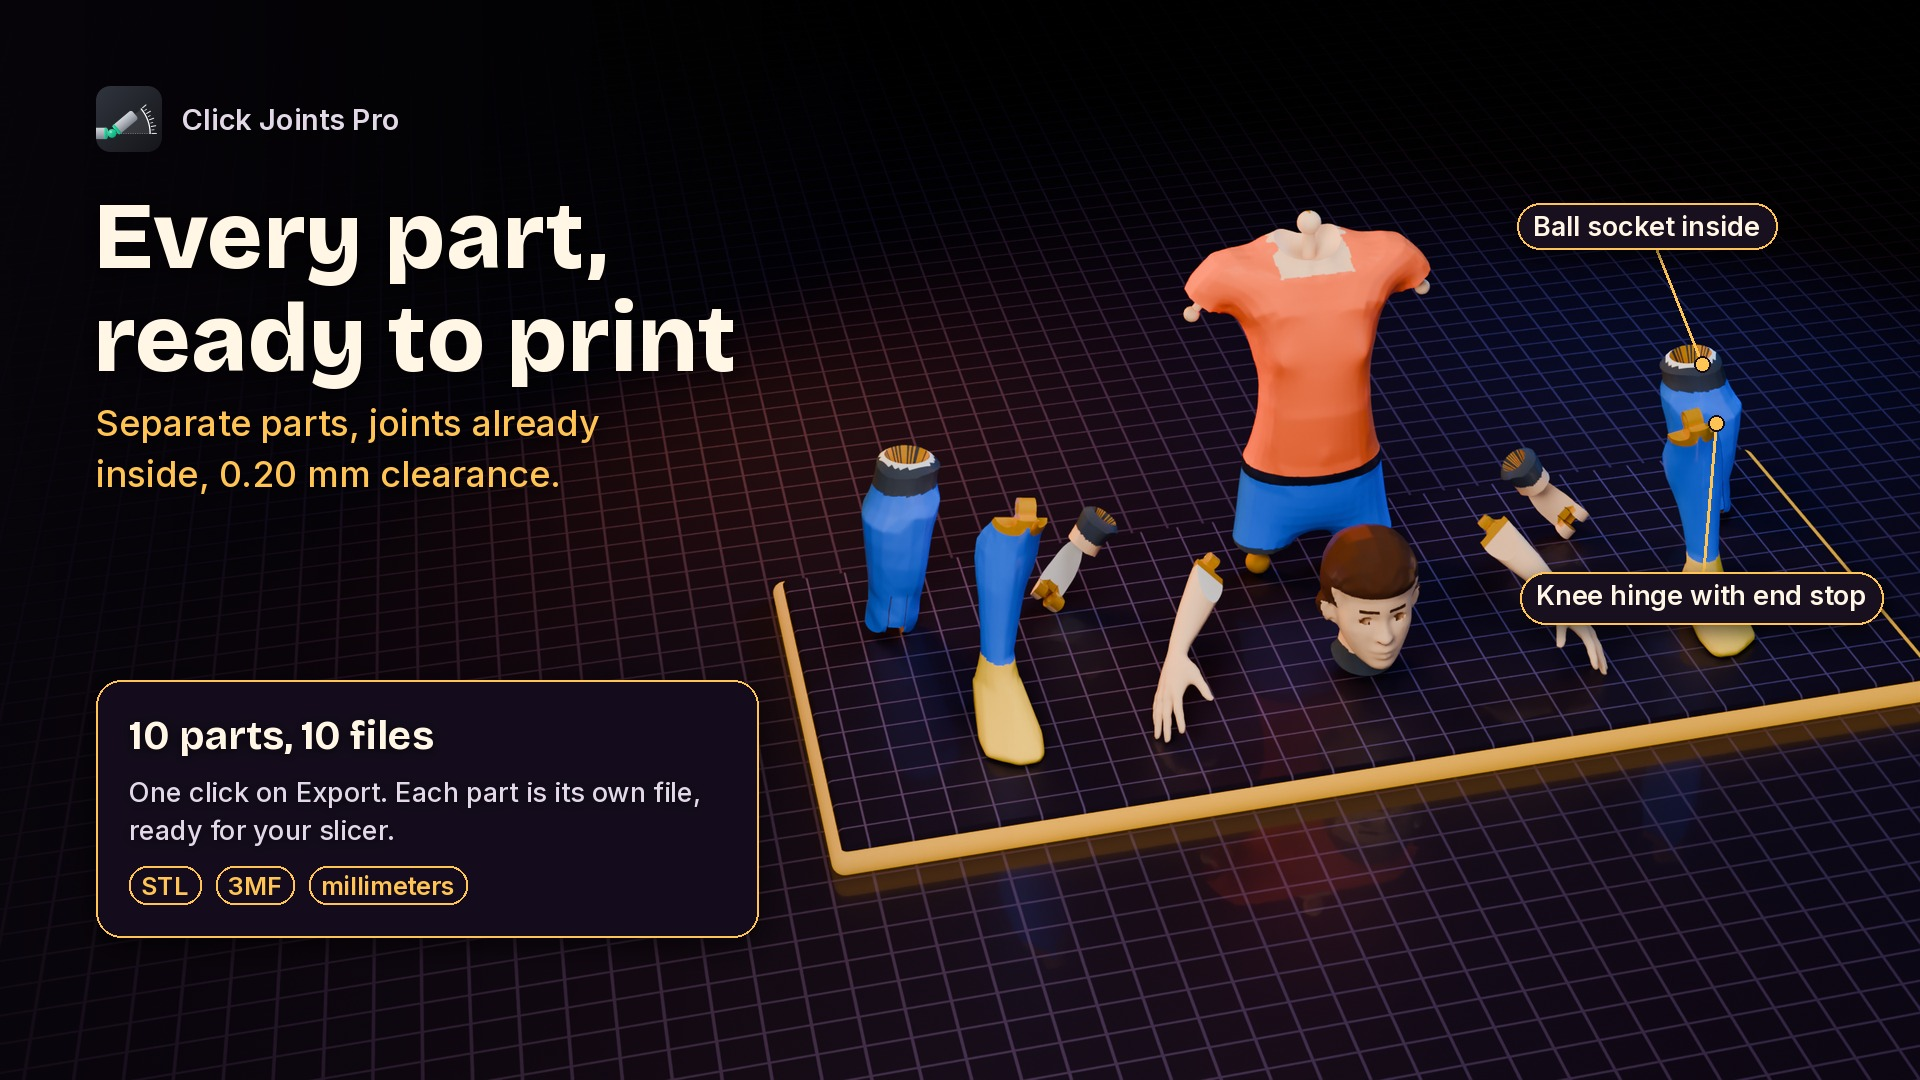
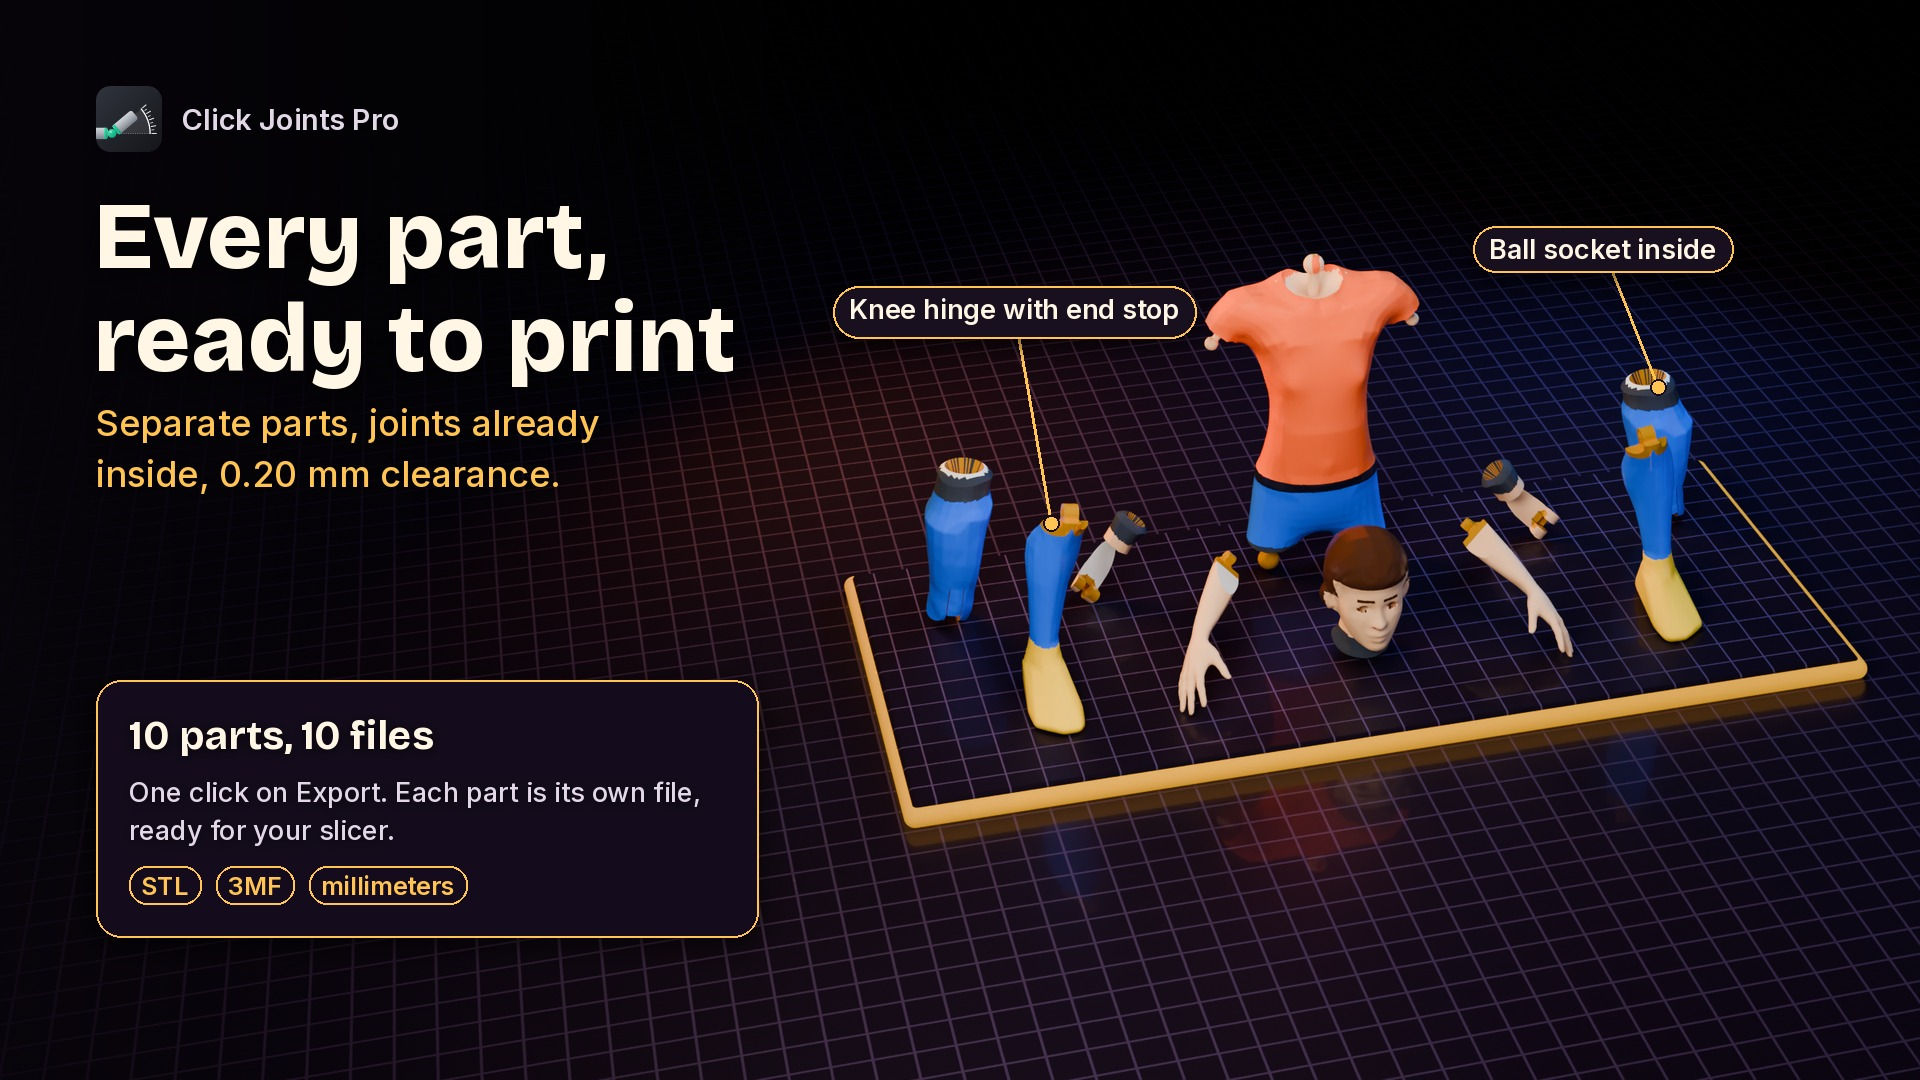
Beeldmaker: galerijbeeld 4 Pro met ronde hals en hele plaat in beeld (#101, keuring #113)
Claude-Session: https://claude.ai/code/session_01RMWUyiBJQVxt1wYjpNVUKN

Changed region(s): [[0.2188, 0.1833, 1.0, 1.0]]

diff --git a/commercie/filmpjes/studio/figuur_laden.py b/commercie/filmpjes/studio/figuur_laden.py
@@ -372,7 +372,12 @@ def laad_mens_kleding(obj_pad, hoogte_mm=220.0, stijl=None, voxel_mm=0.5, dikte=
                     return "mond"
             return "huid"
         if best == "romp":
-            if c.z > p["neck"].z - 6.5 * f and abs(c.x) < 9.5 * f:
+            if os.environ.get("CJ_HALS") == "rond":
+                # ronde hals (Beeldmaker #101, keuring #113): een smalle boog rond de nek, geen vierkante lap
+                u = c.x / (7.0 * f)
+                if abs(u) < 1.0 and c.z > p["neck"].z + 1.0 * f - 4.0 * f * math.sqrt(1.0 - u * u):
+                    return "huid"
+            elif c.z > p["neck"].z - 6.5 * f and abs(c.x) < 9.5 * f:
                 return "huid"   # halsopening van het shirt
             if abs(c.z - taille) < 1.6 * f:
                 return "riem"

diff --git a/ontwerp/pro-galerij/bron/tekst.py b/ontwerp/pro-galerij/bron/tekst.py
@@ -290,7 +290,8 @@ def delen(img, s, meta, P):
         return min(kand, key=lambda q: q["beeld"][1]) if kand else None   # het verste deel (achterste rij)
     for gewricht, soort, tekst, (dx, dy) in (
             ("Left hip", "KOGEL", "Ball socket inside", (-60, -150)),
-            ("Left knee", "SCHARNIER", "Knee hinge with end stop", (120, 190))):
+            (os.environ.get("GB_KNIE", "Left knee"), "SCHARNIER", "Knee hinge with end stop",
+             tuple(int(v) for v in os.environ.get("GB_KNIE_D", "120,190").split(",")))):
         q = zoek(gewricht, soort)
         if not q:
             continue

diff --git a/ontwerp/pro-galerij/LEESMIJ.md b/ontwerp/pro-galerij/LEESMIJ.md
@@ -44,3 +44,10 @@ Ronde 2 (#101, 25 nov ±23:55): `delen-mens-*`, zelfde beeld met een organisch f
 HB_FIGUUR=mens GB_LEG=lichaam GB_MODUS=delen GB_PLAATRAND=18 GB_GAT=20 HB_LICHT=2.6 GB_SHIFT=-0.20 GB_SHIFT_Y=0 GB_OP=0.6 GB_LENS=55 GB_AFSTAND=740 GB_ZIJ=-0.28 (zelfde regel, 32 samples)
 python3 bron/tekst.py delen <uit>/render-delen.png <uit>/delen.json <uit> <fonts> ../click-joints/bron/icoon.svg   (daarna hernoemd naar delen-mens-*)
 ```
+
+Ronde 3 (#101, keuring #113, 26 nov ±01:30): `delen-mens-*` opnieuw met de twee moet-punten van Daan. M1: ronde hals in plaats van de vierkante huidkleurige lap (`CJ_HALS=rond` in `commercie/filmpjes/studio/figuur_laden.py`; zonder die variabele blijft alles zoals het was). M2: camera iets verder (`GB_AFSTAND=850`), zodat de hele plaat in beeld staat, ook op 1920x1080; het kniekaartje staat nu bij het losse onderbeen links (Daans kan-punt) en raakt geen hand. Zelfde compositie, dus geen nieuwe blinde test (Daan, #113).
+```
+CJ_HALS=rond HB_FIGUUR=mens GB_LEG=lichaam GB_MODUS=delen GB_PLAATRAND=18 GB_GAT=20 HB_LICHT=2.6 GB_SHIFT=-0.20 GB_SHIFT_Y=0 GB_OP=0.6 GB_LENS=55 GB_AFSTAND=850 GB_ZIJ=-0.28 (zelfde regel, 32 samples)
+GB_KNIE="Right knee" GB_KNIE_D=-40,-230 python3 bron/tekst.py delen <uit>/render-delen.png <uit>/delen.json <uit> <fonts> ../click-joints/bron/icoon.svg   (daarna hernoemd naar delen-mens-*)
+```
+Fonts: Bricolage Grotesque en Inter (OFL) uit github.com/google/fonts.

diff --git a/berichten/beeldmaker.md b/berichten/beeldmaker.md
@@ -45,3 +45,6 @@ Webpagina's lees je met `curl` in Bash, nooit met WebFetch. WebFetch vraagt Thij
 
 ## 25 nov 2026 ±23:55 NL, Beeldmaker (eigen log)
 #101 ronde 2: 'Every part, ready to print' met het MakeHuman-figuur (CC0) in plaats van de robot (`ontwerp/pro-galerij/beelden/delen-mens-*`), gelegd als een lichaam uit elkaar; echte Figure from rig en Export (10 delen, 10 STL, 10 3MF). Blinde test GESLAAGD: Gemini 1,5, ChatGPT 1,0 (uitslag `click-joints-pro-galerij-delen-2026-11-25-2305.md`). Keuring #113 bij Daan. Volgende: na zijn ja klaar om te plakken en #101 dicht; dan #105 (paard, Click Cuts).
+
+## 26 nov 2026 ±00:53 NL, Beeldmaker (eigen log)
+#101: Daans twee moet-punten (#113) gedaan in `delen-mens-*`: ronde hals in plaats van de lap (CJ_HALS=rond), camera iets verder zodat de plaat ook op 1920x1080 heel in beeld staat, kniekaartje bij het losse onderbeen links, los van elke hand. Geen nieuwe blinde test (Daan). Nakeuring bij Daan; na zijn ja klaar om te plakken en #101 dicht, dan #105.
